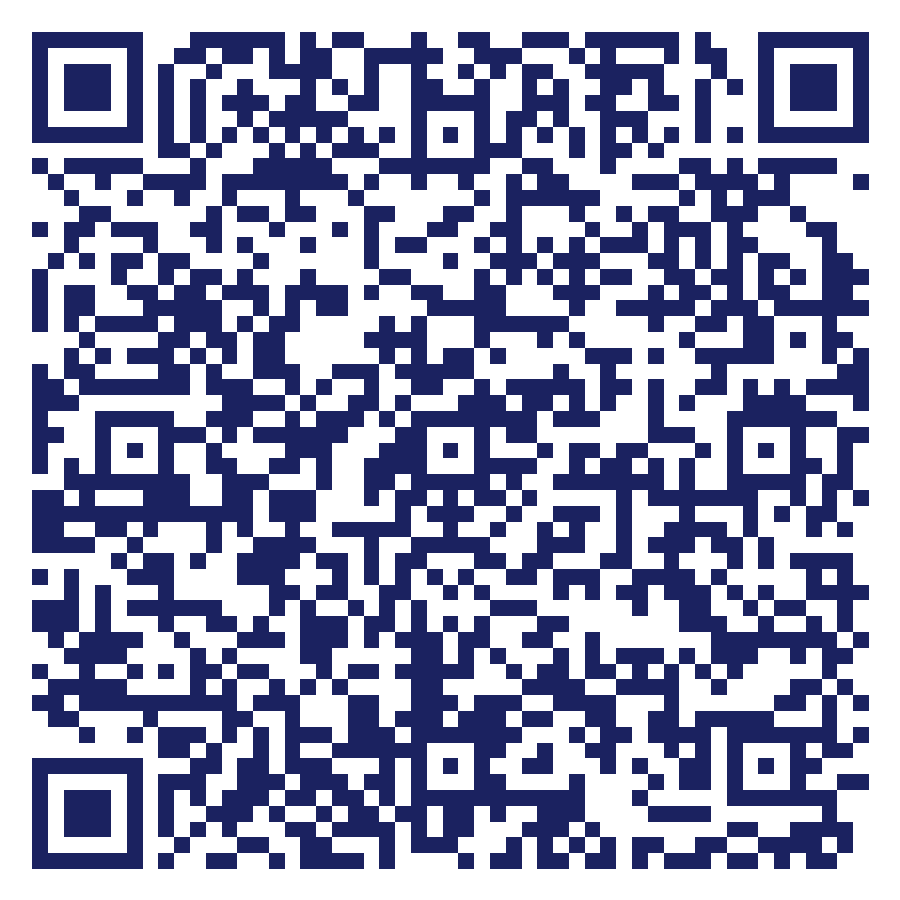
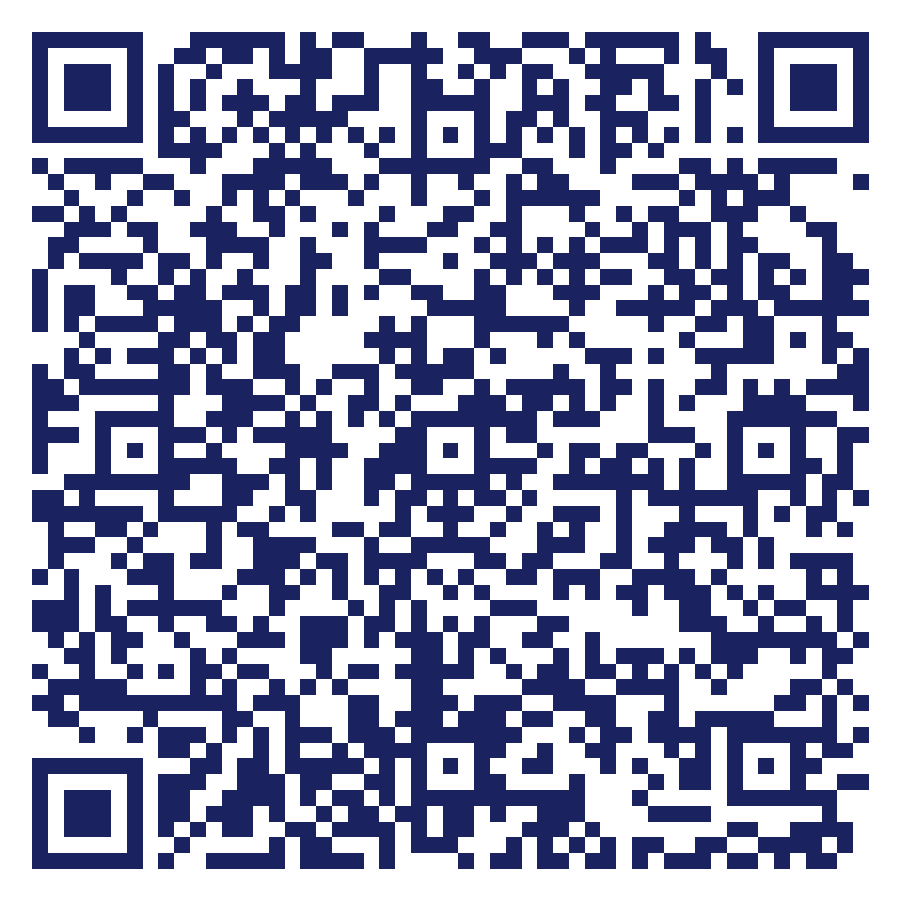
Set fee to Rs 499, drop decorative stripes, use ZSB contact email
- Registration fee 500 -> 499 across the server, form, and QR payload
- Removed the "BIB · UR26" tag from the hero card, the multicolour rules above
  the distance categories and under the About heading, and the footer stripe
- Footer now shows the ZSB email instead of a placeholder address

diff --git a/public/css/styles.css b/public/css/styles.css
@@ -5,8 +5,6 @@
   --red: #C41E2A;
   --red-deep: #9A151F;
   --sky: #46AEE0;
-  --olive: #5A6B35;
-  --rust: #C1622C;
   --sky-pale: #EAF6FD;
   --paper: #FFFFFF;
   --ink: #14161C;
@@ -157,21 +155,12 @@ h1.headline .accent { color: var(--red); font-style: italic; }
 .bib-row:last-child { border-bottom: none; }
 .bib-row .k { color: var(--ink-soft); font-size: 0.66rem; }
 .bib-row .v { font-family: Arial, system-ui, sans-serif; font-weight: 700; font-size: 0.92rem; color: var(--navy); }
-.bib-num {
-  position: absolute; top: -13px; left: 28px;
-  background: var(--red); color: #fff;
-  font-family: Arial, system-ui, sans-serif; font-weight: 700;
-  font-size: 0.64rem; letter-spacing: 0.14em; padding: 5px 12px;
-}
 
 /* ---------- CATEGORY STRIP ---------- */
 .categories { background: var(--paper); border-top: 1px solid var(--line); border-bottom: 1px solid var(--line); }
 .cat-grid { display: grid; grid-template-columns: repeat(3, 1fr); }
 .cat { padding: 32px 28px; border-right: 1px solid var(--line); }
 .cat:last-child { border-right: none; }
-.cat:nth-child(1) { border-top: 3px solid var(--red); }
-.cat:nth-child(2) { border-top: 3px solid var(--sky); }
-.cat:nth-child(3) { border-top: 3px solid var(--olive); }
 .cat .dist { font-size: 2.5rem; font-weight: 700; color: var(--navy); line-height: 1; }
 .cat .dist span { color: var(--red); }
 .cat .name { margin-top: 10px; font-size: 0.94rem; color: var(--ink-soft); }
@@ -182,7 +171,6 @@ h1.headline .accent { color: var(--red); font-style: italic; }
 h2.section-title { font-size: clamp(1.8rem, 3.2vw, 2.4rem); line-height: 1.1; margin: 0 0 8px; color: var(--navy); text-wrap: balance; }
 .kicker { display: block; color: var(--red); margin-bottom: 14px; }
 .about p { font-size: 1rem; line-height: 1.75; color: var(--ink-soft); max-width: 60ch; }
-.stripe { height: 4px; width: 90px; background: linear-gradient(90deg, var(--navy) 0 20%, var(--red) 20% 40%, var(--rust) 40% 60%, var(--sky) 60% 80%, var(--olive) 80% 100%); margin: 24px 0 0; }
 
 /* ---------- DETAILS ---------- */
 .details { background: var(--paper); color: var(--ink); padding: 76px 0; border-top: 1px solid var(--line); border-bottom: 1px solid var(--line); }
@@ -202,7 +190,6 @@ footer.site { background: var(--paper); color: var(--ink-soft); padding: 44px 0;
 .foot-brand img { width: 38px; height: auto; }
 .foot-brand .t1 { color: var(--navy); font-weight: 700; font-size: 0.95rem; }
 .foot-brand .t2 { font-size: 0.7rem; color: var(--red); }
-.stripe-mini { height: 3px; width: 100%; background: linear-gradient(90deg, var(--navy-soft) 0 20%, var(--red) 20% 40%, var(--rust) 40% 60%, var(--sky) 60% 80%, var(--olive) 80% 100%); margin-bottom: 28px; opacity: 0.85; }
 .foot-row { display: flex; justify-content: space-between; align-items: center; flex-wrap: wrap; gap: 16px; font-size: 0.8rem; }
 
 /* ============ REGISTRATION MODAL ============ */

diff --git a/public/index.html b/public/index.html
@@ -46,11 +46,10 @@
     </div>
     <div>
       <div class="bib">
-        <div class="bib-num">BIB · UR26</div>
         <div class="bib-row"><span class="k label">Venue</span><span class="v">Barasat Stadium</span></div>
         <div class="bib-row"><span class="k label">Date</span><span class="v">20 September 2026</span></div>
         <div class="bib-row"><span class="k label">Categories</span><span class="v">3K · 5K · 10K</span></div>
-        <div class="bib-row"><span class="k label">Entry Fee</span><span class="v">₹500</span></div>
+        <div class="bib-row"><span class="k label">Entry Fee</span><span class="v">₹499</span></div>
       </div>
     </div>
   </div>
@@ -78,7 +77,6 @@
     <div>
       <span class="kicker label">Why we run</span>
       <h2 class="section-title">One city.<br>One stadium.<br>One finish line.</h2>
-      <div class="stripe"></div>
     </div>
     <div>
       <p>Unity Run 2026 brings runners of every age and background to Barasat Stadium for a single shared morning — a fun run for families, a timed 5K for regulars, and a 10K for those chasing a personal best. Every registration helps fund community outreach and keeps the run free to attend as a spectator.</p>
@@ -123,10 +121,9 @@
         <div class="t2">Organized by ZSB North 24 Parganas</div>
       </div>
     </div>
-    <div class="stripe-mini"></div>
     <div class="foot-row">
       <div>© 2026 Unity Run · Barasat Stadium</div>
-      <div class="sans">contact@unityrun2026.org</div>
+      <div class="sans">rsb.wb1@gmail.com</div>
     </div>
   </div>
 </footer>
@@ -208,11 +205,11 @@
             <legend class="legend">Category / Distance</legend>
             <div class="pill-row">
               <input type="radio" name="category" id="cat3k" value="3K" required />
-              <label class="pill" for="cat3k">3K Fun Run / Walk — ₹500</label>
+              <label class="pill" for="cat3k">3K Fun Run / Walk — ₹499</label>
               <input type="radio" name="category" id="cat5k" value="5K" />
-              <label class="pill" for="cat5k">5K Timed Run — ₹500</label>
+              <label class="pill" for="cat5k">5K Timed Run — ₹499</label>
               <input type="radio" name="category" id="cat10k" value="10K" />
-              <label class="pill" for="cat10k">10K Timed Run — ₹500</label>
+              <label class="pill" for="cat10k">10K Timed Run — ₹499</label>
             </div>
           </fieldset>
           <fieldset class="fieldset f-group">
@@ -262,7 +259,7 @@
           <ul class="summary-list" id="summaryList"></ul>
           <div class="fee-line">
             <span class="k">Registration fee</span>
-            <span class="v" id="feeAmount">₹500</span>
+            <span class="v" id="feeAmount">₹499</span>
           </div>
 
           <div class="subhead">Pay via UPI</div>

diff --git a/public/js/main.js b/public/js/main.js
@@ -19,7 +19,7 @@
   ];
 
   let currentStep = 1;
-  let fees = { '3K': 500, '5K': 500, '10K': 500 };
+  let fees = { '3K': 499, '5K': 499, '10K': 499 };
   let upiVpa = null;
   let upiPayeeName = 'Unity Run 2026';
   let upiOrgId = '159020';
@@ -167,7 +167,7 @@
       return;
     }
     const category = getFieldValue('category');
-    const amount = fees[category] || 500;
+    const amount = fees[category] || 499;
     // Mirrors the bank QR's parameters so UPI apps treat it as the same merchant.
     const params = new URLSearchParams({
       ver: '01',
@@ -200,7 +200,7 @@
     summaryList.innerHTML = rows
       .map(([k, v]) => `<li><span>${k}</span><span>${escapeHtml(v || '—')}</span></li>`)
       .join('');
-    const fee = fees[data.category] || 500;
+    const fee = fees[data.category] || 499;
     feeAmount.textContent = `₹${fee}`;
   }
 

diff --git a/server/index.js b/server/index.js
@@ -9,7 +9,7 @@ const app = express();
 app.use(express.json());
 app.use(express.static(path.join(__dirname, '..', 'public')));
 
-const FEES = { '3K': 500, '5K': 500, '10K': 500 };
+const FEES = { '3K': 499, '5K': 499, '10K': 499 };
 
 const upload = multer({
   storage: multer.memoryStorage(),

diff --git a/scripts/generate-upi-qr.js b/scripts/generate-upi-qr.js
@@ -11,7 +11,7 @@ require('dotenv').config();
 const path = require('path');
 const QRCode = require('qrcode');
 
-const REGISTRATION_FEE = 500;
+const REGISTRATION_FEE = 499;
 
 const amount = process.argv[2] || String(REGISTRATION_FEE);
 const vpa = process.env.UPI_VPA;

diff --git a/README.md b/README.md
@@ -62,7 +62,7 @@ The endpoint is unauthenticated by URL, so the shared secret is what stops stran
 5. Deploy. Render gives you a `https://unity-run-2026.onrender.com`-style URL; a custom domain can be attached later from the same dashboard.
 
 ## Notes
-- Entry fee is currently a flat ₹500 for all categories — change the `FEES` object in `server/index.js` if categories should have different prices.
+- Entry fee is currently a flat ₹499 for all categories — change the `FEES` object in `server/index.js` if categories should have different prices.
 - Payment is **not** automatically verified. Every registration lands in the sheet as `Pending verification`; an organizer opens the linked screenshot, checks it against the UPI ID, and updates that cell. Budget time for this before the event.
 - Screenshot uploads are capped at 5 MB and must be image files.
 - The "tap to pay" QR link uses a `upi://` deep link, which only opens an app on mobile devices. On desktop, runners scan the QR with their phone instead.
